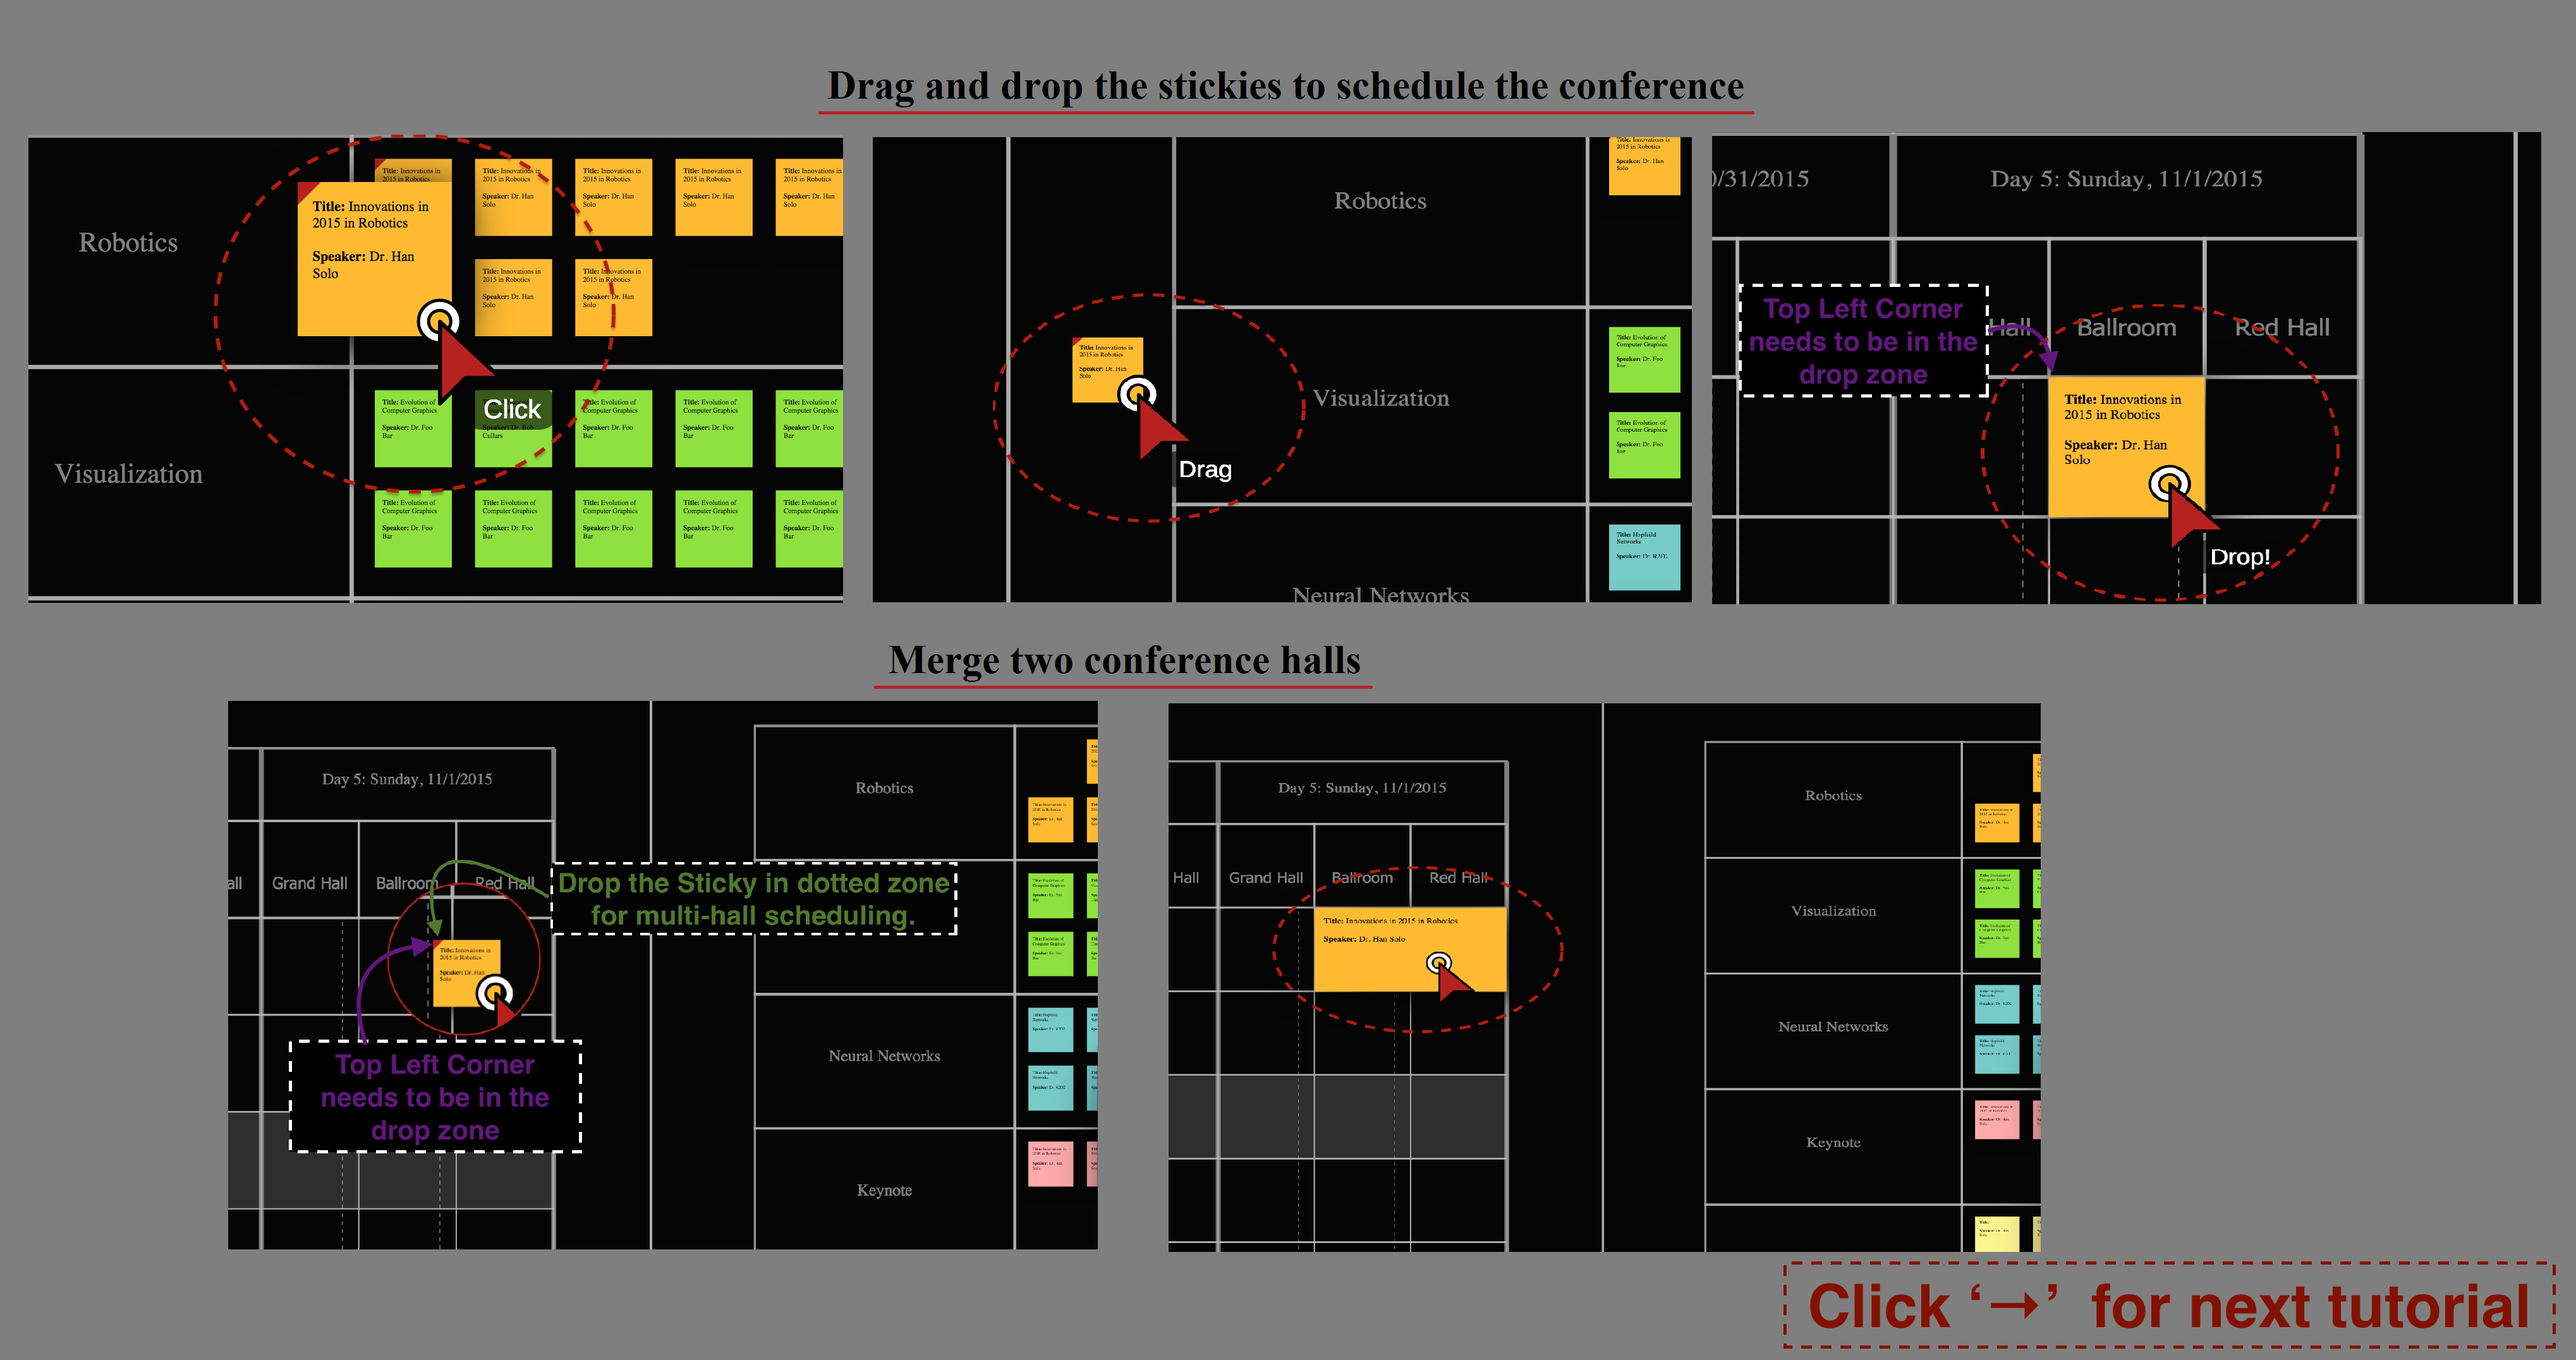
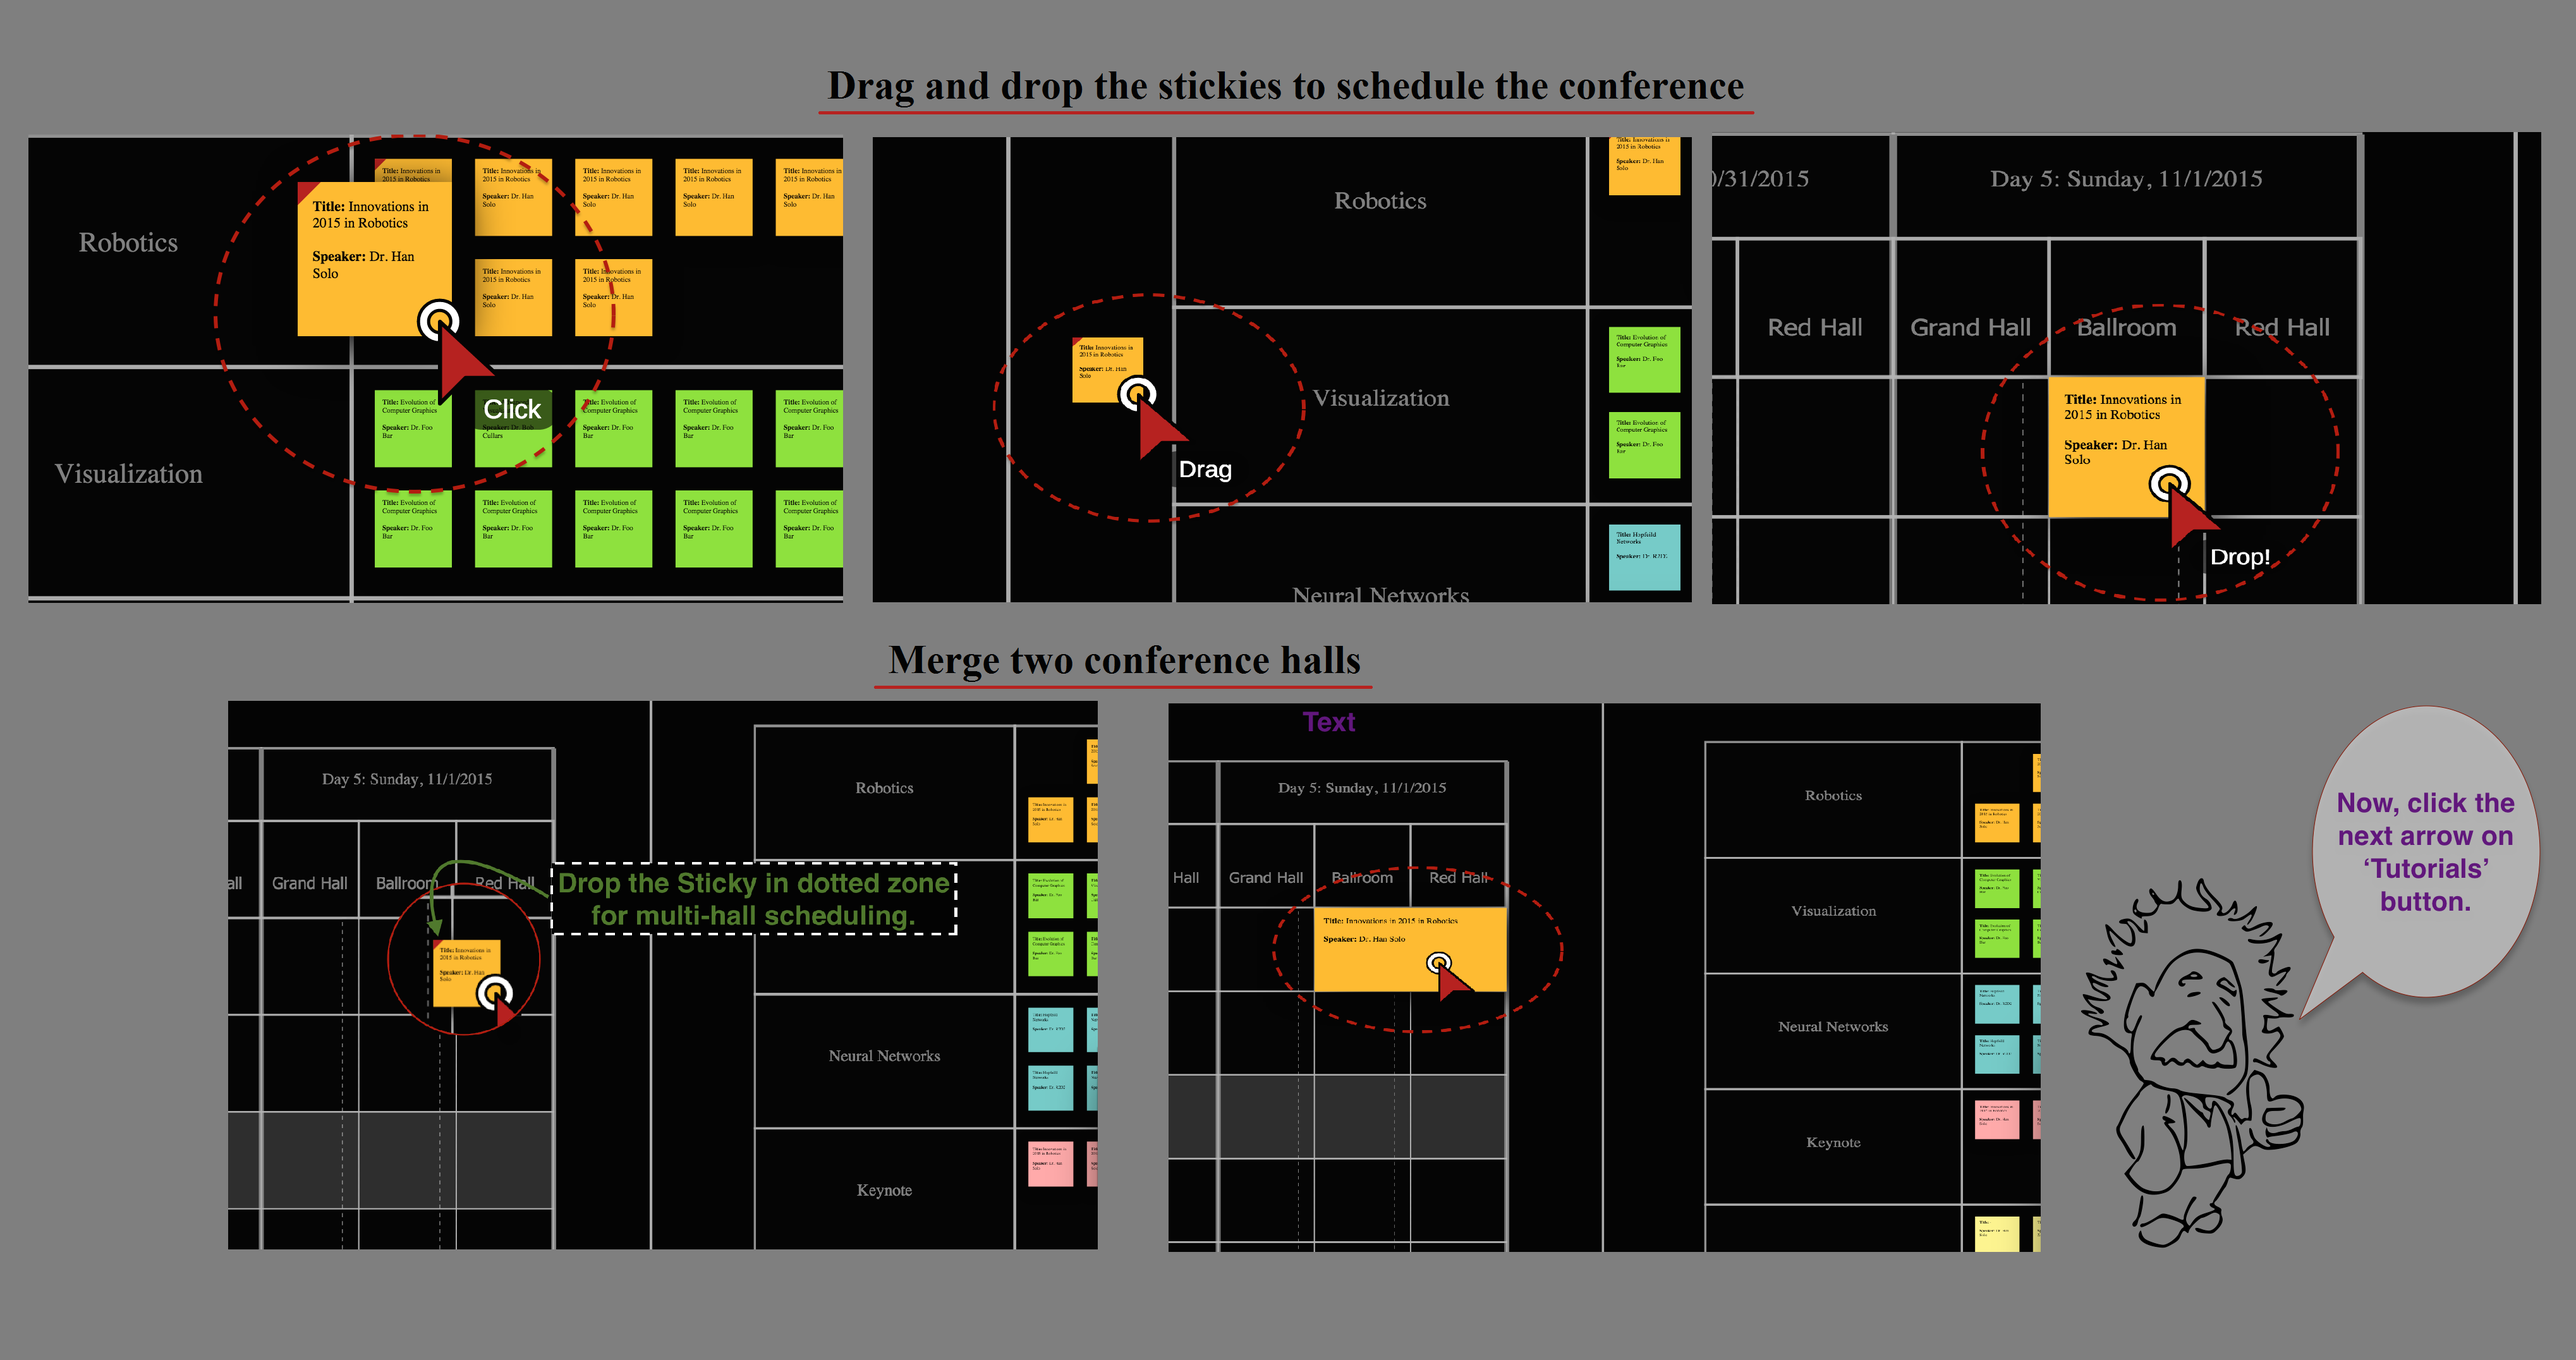
Made changes as per beta test

diff --git a/ConferenceScheduler.js b/ConferenceScheduler.js
@@ -36,7 +36,8 @@ var ConferenceScheduler = SAGE2_App.extend( {
 		// this.defaultStroke = "rgba(68, 48, 255, 0.80)";
 		this.defaultFill = "rgba(10,10,10, 0.1)";
 		this.defaultStroke = "rgba(180, 180, 180, 0.80)";
-
+		this.defaultButtonFill = "rgba(100,100,100,0.5)";
+		this.defaultButtonPressedFill = "rgba(0,0,0,1)";
 		this.numberOfDays = 5;
 		this.numberOfHalls = 3;
 		this.numberOfSessions = 6;
@@ -79,7 +80,7 @@ var ConferenceScheduler = SAGE2_App.extend( {
 		this.gridWRatio = 0.6;
 		this.gridHRatio = 0.9;
 
-		this.textColor = "Gray";
+		this.textColor = "rgba(150, 150, 150, 1)";
 		// this.textColor = "rgb(182,34,32)";
 		this.txtSize = "20";
 		// this.textColor1 = "rgb(180,180,180)";
@@ -90,7 +91,7 @@ var ConferenceScheduler = SAGE2_App.extend( {
 		this.toggleFP = true;
 		this.toggleRI = true;
 		this.toggleTI = true;
-		this.toggleTN = true;
+		this.toggleTN = false;
 		this.toggleSave = true;
 		this.movesAllowed = 1;
 		this.g_feedback = undefined;
@@ -731,7 +732,7 @@ var ConferenceScheduler = SAGE2_App.extend( {
 
 		var paper_tableX1 = paper_gridXEnd * 0.2;
 		var paper_tableX2 = paper_gridXEnd *(1-0.05);
-		var paper_tableY1 = paper_gridYEnd * 0.30;
+		var paper_tableY1 = paper_gridYEnd * 0.3;
 		var paper_tableY2 = paper_gridYEnd*(1-0.05);
 
 		var paper_tableW = paper_tableX2 - paper_tableX1;
@@ -779,7 +780,7 @@ var ConferenceScheduler = SAGE2_App.extend( {
 		for(var k = 0;k<this.numberOfDays;k++){
 			var dayPartition = this.paper_main.line(cellX, cellY,cellX,partitionLength).attr({ stroke:partitionColor, strokeWidth: 6});
 			var headRect = this.paper_main.rect(cellX, cellY, cellW, dayH).attr({
-				fill:        this.defaultFill,
+				fill:        this.defaultButtonFill,
 				stroke:      this.defaultStroke,
 				strokeWidth: 3
 				});
@@ -1124,7 +1125,7 @@ var ConferenceScheduler = SAGE2_App.extend( {
 		var button1Y = paper_gridYEnd+this.buttonPadding;
 
 		var button_tutorial = this.paper_main.rect(button1X,button1Y,this.buttonW,this.buttonH).attr({
-			fill:        this.defaultFill,
+			fill:        this.defaultButtonFill,
 			stroke:      this.defaultStroke,
 			strokeWidth: 3		
 		});
@@ -1151,7 +1152,7 @@ var ConferenceScheduler = SAGE2_App.extend( {
 		var button_roomInfo = this.paper_main.rect(button2X,button2Y,this.buttonW,this.buttonH).attr({
 			// fill: "#330099",
 			// stroke: "#ffffff"
-			fill:        this.defaultFill,
+			fill:        this.defaultButtonFill,
 			stroke:      this.defaultStroke,
 			strokeWidth: 3
 		
@@ -1178,7 +1179,7 @@ var ConferenceScheduler = SAGE2_App.extend( {
 		var button_floorPlan = this.paper_main.rect(button3X,button3Y,this.buttonW,this.buttonH).attr({
 			// fill: "#330099",
 			// stroke: "#ffffff"
-			fill:        this.defaultFill,
+			fill:        this.defaultButtonFill,
 			stroke:      this.defaultStroke,
 			strokeWidth: 3
 		
@@ -1206,7 +1207,7 @@ var ConferenceScheduler = SAGE2_App.extend( {
 		var button_next = this.paper_main.rect(button4X,button4Y,this.buttonW,this.buttonH).attr({
 			// fill: "#330099",
 			// stroke: "#ffffff"
-			fill:        this.defaultFill,
+			fill:        this.defaultButtonFill,
 			stroke:      this.defaultStroke,
 			strokeWidth: 3
 		
@@ -1236,7 +1237,8 @@ var ConferenceScheduler = SAGE2_App.extend( {
 			// stroke: "#ffffff"
 			fill:        this.defaultFill,
 			stroke:      this.defaultStroke,
-			strokeWidth: 3
+			strokeWidth: 3,
+			'stroke-dasharray':"5,5"
 		
 		});
 		
@@ -2086,7 +2088,7 @@ var ConferenceScheduler = SAGE2_App.extend( {
 				var button1X = this.controlsLeftPadding;
 				var button1Y = paper_gridYEnd+this.buttonPadding;
 
-				if(paperX >= button1X && paperX < button1X+ this.buttonW*0.75 && paperY >= button1Y && paperY < button1Y+this.buttonH){
+				if(paperX >= button1X && paperX < button1X+ this.buttonW*0.8 && paperY >= button1Y && paperY < button1Y+this.buttonH){
 					console.log("ButtonClicked ("+ paperX + ","+ paperY +")");
 					
 					if(this.toggleTI == true){
@@ -2096,7 +2098,7 @@ var ConferenceScheduler = SAGE2_App.extend( {
 						});
 
 						var button_tutorial = this.paper_main.rect(button1X,button1Y,this.buttonW,this.buttonH).attr({
-							fill:        this.defaultFill,
+							fill:        this.defaultButtonPressedFill,
 							stroke:       this.textColor,
 							strokeWidth: 3
 						
@@ -2124,11 +2126,17 @@ var ConferenceScheduler = SAGE2_App.extend( {
 
 
 				
-						this.text_nexttutorialsign = this.paper_main.text(button1X+(this.buttonW*0.75),button1Y+(this.buttonH*0.7), "→").attr({
+						// this.text_nexttutorialsign = this.paper_main.text(button1X+(this.buttonW*0.75),button1Y+(this.buttonH*0.7), "→").attr({
+						// 	fill: this.textColor1,
+						// 	'font-size':"80" ,
+						// 	// "text-anchor" : "middle"
+						// });	
+						//Creating a sticky Triangle
+						this.text_nexttutorialsign= this.paper_main.polyline([button1X+(this.buttonW*0.8),button1Y+(this.buttonH*0.3),button1X+(this.buttonW*0.95),button1Y+(this.buttonH*0.5),button1X+(this.buttonW*0.8),button1Y+(this.buttonH*0.7)]).attr({
+							// id:"sticky_triangle_"+stickyId,
 							fill: this.textColor1,
-							'font-size':"80" ,
-							// "text-anchor" : "middle"
-						});	
+							// transform : defaultMatrix
+						});
 						this.g_tutorialsImage.add(this.shadow_tutorials);
 						this.g_tutorialsImage.add(shadow_next);
 						
@@ -2139,6 +2147,7 @@ var ConferenceScheduler = SAGE2_App.extend( {
 						this.g_tutorialsImage.add(this.text_nexttutorialsign);
 						
 						this.toggleTI = false;
+						this.toggleTN = true;
 						}
 						else{
 							this.g_tutorialsImage.remove();		
@@ -2150,7 +2159,7 @@ var ConferenceScheduler = SAGE2_App.extend( {
 
 				//clicked on next arrow
 			
-				var buttonnextX = button1X+(this.buttonW*0.75)
+				var buttonnextX = button1X+(this.buttonW*0.8)
 				var buttonnextY = button1Y+(this.buttonH*0.7)
 
 				if(paperX >= buttonnextX && paperX < button1X+ this.buttonW && paperY >= button1Y && paperY < button1Y+this.buttonH){
@@ -2168,7 +2177,7 @@ var ConferenceScheduler = SAGE2_App.extend( {
 					else{
 						this.g_tutorialsImage.remove();
 						this.toggleTI = true;
-						this.toggleTN = true;
+						this.toggleTN = false;
 					}
 					console.log("done");
 				}
@@ -2193,7 +2202,7 @@ var ConferenceScheduler = SAGE2_App.extend( {
 						
 						var button_roomInfonew = this.paper_main.rect(button2X,button2Y,this.buttonW,this.buttonH).attr({
 							
-							fill:       this.defaultFill,
+							fill:        this.defaultButtonPressedFill,
 							stroke:       this.textColor,
 							strokeWidth: 3
 						
@@ -2236,7 +2245,7 @@ var ConferenceScheduler = SAGE2_App.extend( {
 		
 						var image_floorPlan = this.paper_main.image(this.resrcPath +"icon.png",(this.paper_mainW/6)+(this.paper_mainW/3),(this.paper_mainH/4),(this.paper_mainW/3)-this.imagePadding,(this.paper_mainH/2));
 						var button_floorPlannew = this.paper_main.rect(button3X,button3Y,this.buttonW,this.buttonH).attr({
-							fill:        this.defaultFill,
+							fill:         this.defaultButtonPressedFill,
 							stroke:       this.textColor,
 							strokeWidth: 3		
 						});
